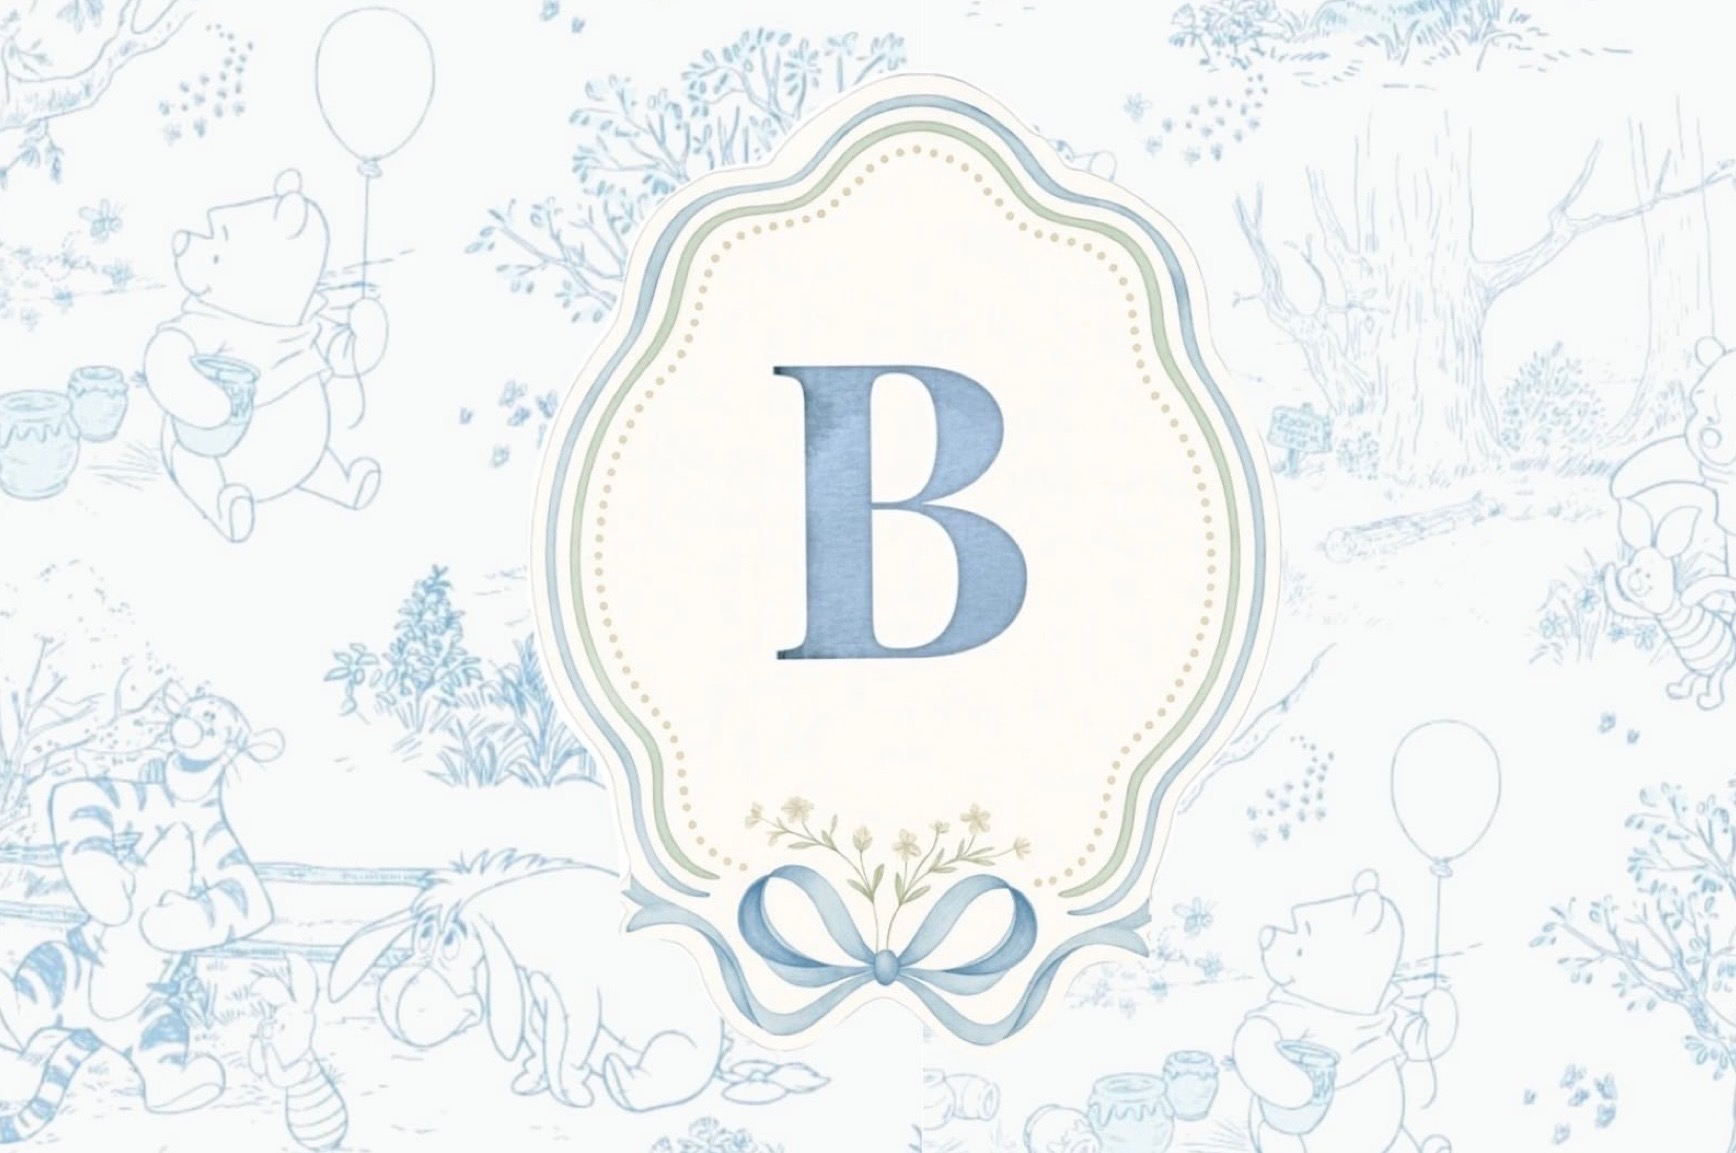
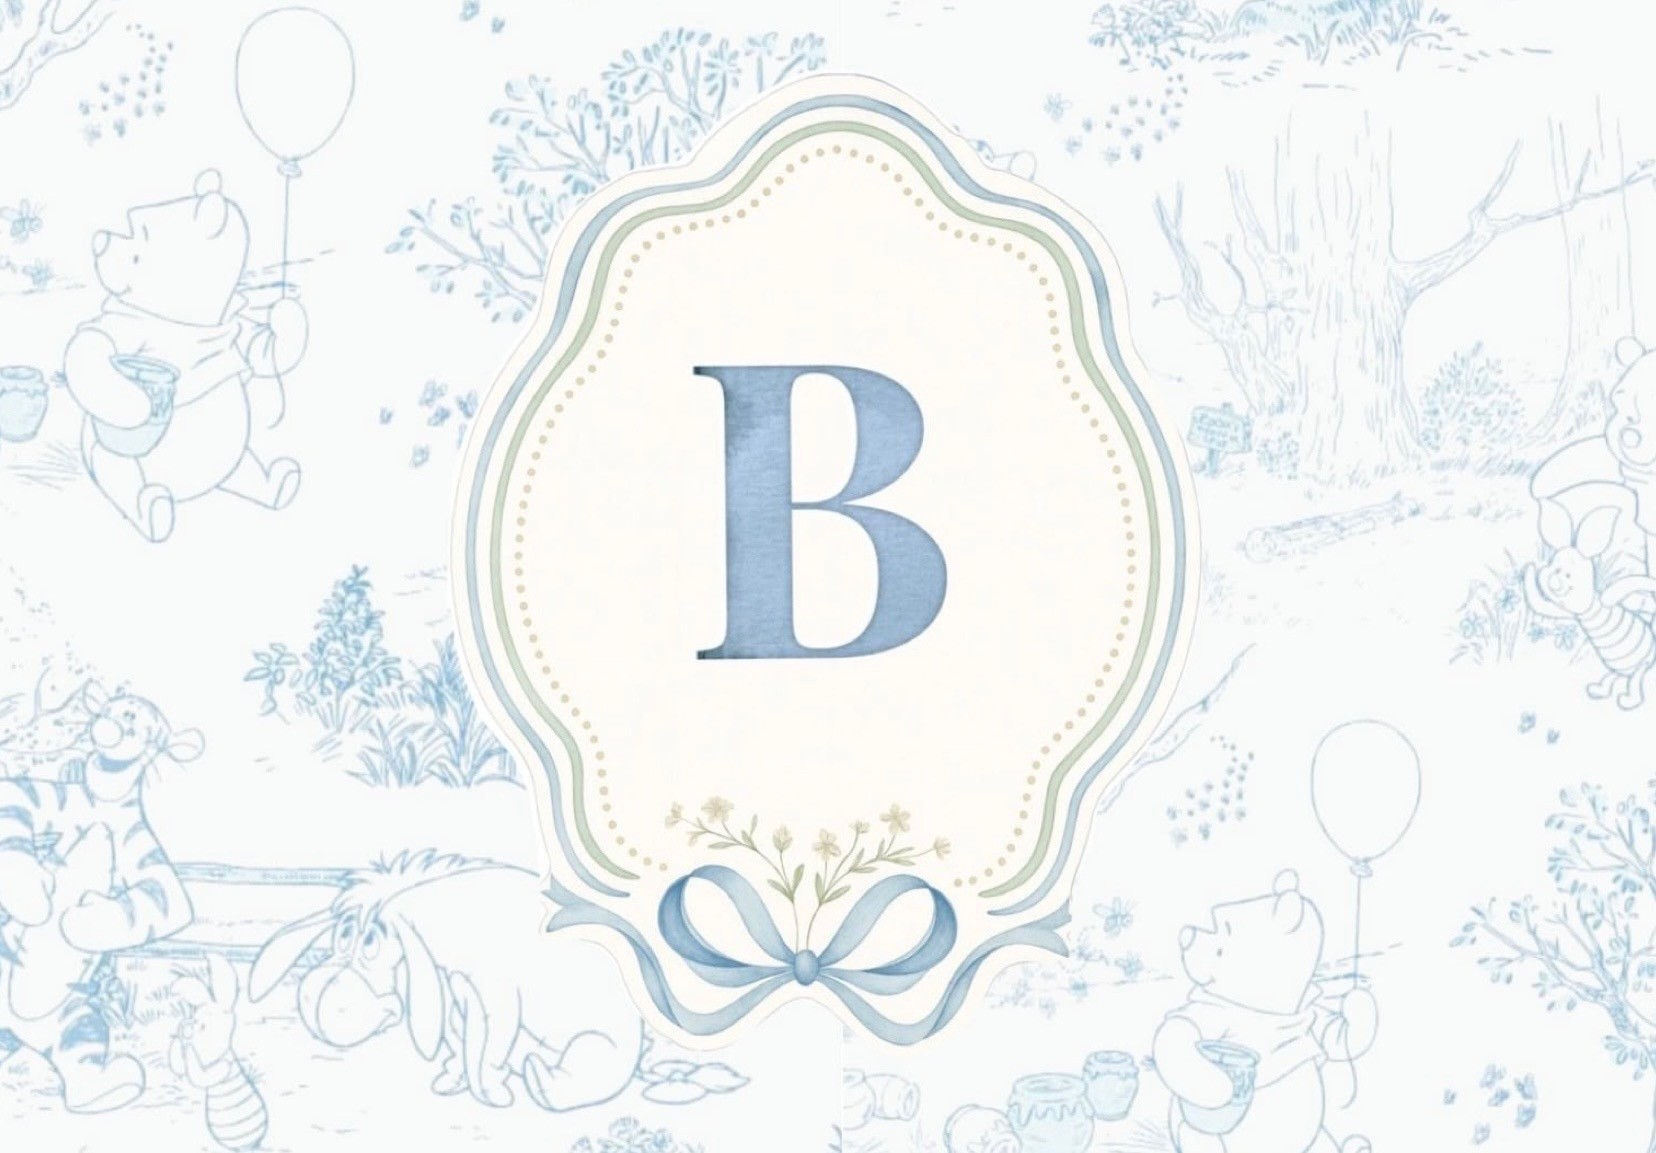
aligned the B background piuc

diff --git a/src/features/landing/StatCard.jsx b/src/features/landing/StatCard.jsx
@@ -1,9 +1,9 @@
 import PropTypes from 'prop-types';
 
-import { Card, Typography } from '@mui/material';
+import { Box, Card, Stack, Typography } from '@mui/material';
 
-/** Small fact card under the hero: caption, serif value, detail line. */
-const StatCard = ({ caption, value, detail }) => (
+/** Small fact card under the hero: caption, serif value, detail line and optional colour swatches. */
+const StatCard = ({ caption, value, detail, swatches }) => (
   <Card sx={{ p: 1.75, borderRadius: '1rem', flex: 1, minWidth: 0 }}>
     <Typography
       variant="caption"
@@ -23,6 +23,33 @@ const StatCard = ({ caption, value, detail }) => (
     <Typography variant="body2" color="text.secondary" sx={{ fontSize: '0.8rem' }}>
       {detail}
     </Typography>
+    {swatches?.length > 0 && (
+      <Stack
+        component="ul"
+        direction="row"
+        spacing={0.75}
+        aria-label={`${caption} colours`}
+        sx={{ listStyle: 'none', m: 0, mt: 1, p: 0 }}
+      >
+        {swatches.map(({ name, hex }) => (
+          <Box
+            key={name}
+            component="li"
+            title={name}
+            aria-label={name}
+            sx={{
+              width: 16,
+              height: 16,
+              borderRadius: '50%',
+              bgcolor: hex,
+              // Keeps pale colours visible against the white card.
+              border: '1px solid',
+              borderColor: 'divider',
+            }}
+          />
+        ))}
+      </Stack>
+    )}
   </Card>
 );
 
@@ -30,6 +57,9 @@ StatCard.propTypes = {
   caption: PropTypes.string.isRequired,
   value: PropTypes.string.isRequired,
   detail: PropTypes.string.isRequired,
+  swatches: PropTypes.arrayOf(
+    PropTypes.shape({ name: PropTypes.string.isRequired, hex: PropTypes.string.isRequired })
+  ),
 };
 
 export default StatCard;

diff --git a/api/_lib/registryDetails.js b/api/_lib/registryDetails.js
@@ -13,13 +13,24 @@ export const registryDetails = {
   parents: 'Ziyaad & Tashreeqa',
   parentsTagline: 'Parents-to-be',
   monogram: 'B',
-  dueDate: '2025-10-14',
+  dueDate: '2027-02-28',
 
   headline: 'Welcoming Baby Behardien with boundless love & gratitude.',
   intro:
     "We are overjoyed to begin this transformative chapter together. As we prepare our home for our little one's arrival, your warmth, presence, and prayers mean everything to us.",
 
-  nursery: { title: 'Sage & Oat', detail: 'Natural oak accents' },
+  // `colors` render as swatches on the "Nursery theme" card.
+  nursery: {
+    title: 'Sage & Oat',
+    detail: 'Natural oak accents',
+    colors: [
+      { name: 'Sage', hex: '#A3B18A' },
+      { name: 'Moss', hex: '#7D8F69' },
+      { name: 'Oat', hex: '#E8DCC4' },
+      { name: 'Linen', hex: '#F5F0E6' },
+      { name: 'Oak', hex: '#C49A6C' },
+    ],
+  },
   focus: { title: 'Eco & Organic', detail: 'Heirloom quality pieces' },
 
   note: {

diff --git a/api/_lib/http.js b/api/_lib/http.js
@@ -52,7 +52,11 @@ export const withErrors = (handler) => async (request) => {
     if (error instanceof HttpError) {
       return errorResponse(error.status, error.code, error.message);
     }
-    console.error(`Unhandled API error: ${error?.name ?? 'UnknownError'}`);
+    // The SQLSTATE code (e.g. 42P01 = table missing) helps diagnose database failures and
+    // never contains data values.
+    const sqlState =
+      typeof error?.code === 'string' && /^[0-9A-Z]{5}$/.test(error.code) ? ` (${error.code})` : '';
+    console.error(`Unhandled API error: ${error?.name ?? 'UnknownError'}${sqlState}`);
     return errorResponse(500, 'INTERNAL_ERROR', 'Something went wrong. Please try again.');
   }
 };

diff --git a/src/features/landing/ArtworkHero.jsx b/src/features/landing/ArtworkHero.jsx
@@ -3,8 +3,9 @@ import KeyboardArrowDownIcon from '@mui/icons-material/KeyboardArrowDown';
 
 import welcomeArt from 'assets/images/welcome-toile.jpg';
 
-// Same artwork as the passphrase screen; the monogram plaque sits slightly left of centre.
-const ART_FOCUS = '47% 45%';
+// The artwork is cropped so the monogram plaque sits at its exact horizontal centre; keep x at
+// 50% so the plaque stays centred at every width (phones crop the sides).
+const ART_FOCUS = '50% 45%';
 // Fills the window below the sticky header (64px on phones incl. tab bar ≈ 116px; 72px desktop).
 const HERO_HEIGHT = { xs: 'calc(100svh - 116px)', md: 'calc(100svh - 73px)' };
 

diff --git a/src/pages/LandingPage.jsx b/src/pages/LandingPage.jsx
@@ -92,6 +92,7 @@ const LandingPage = () => {
                   caption="Nursery theme"
                   value={details.nursery.title}
                   detail={details.nursery.detail}
+                  swatches={details.nursery.colors}
                 />
                 <StatCard
                   caption="Mindful focus"
